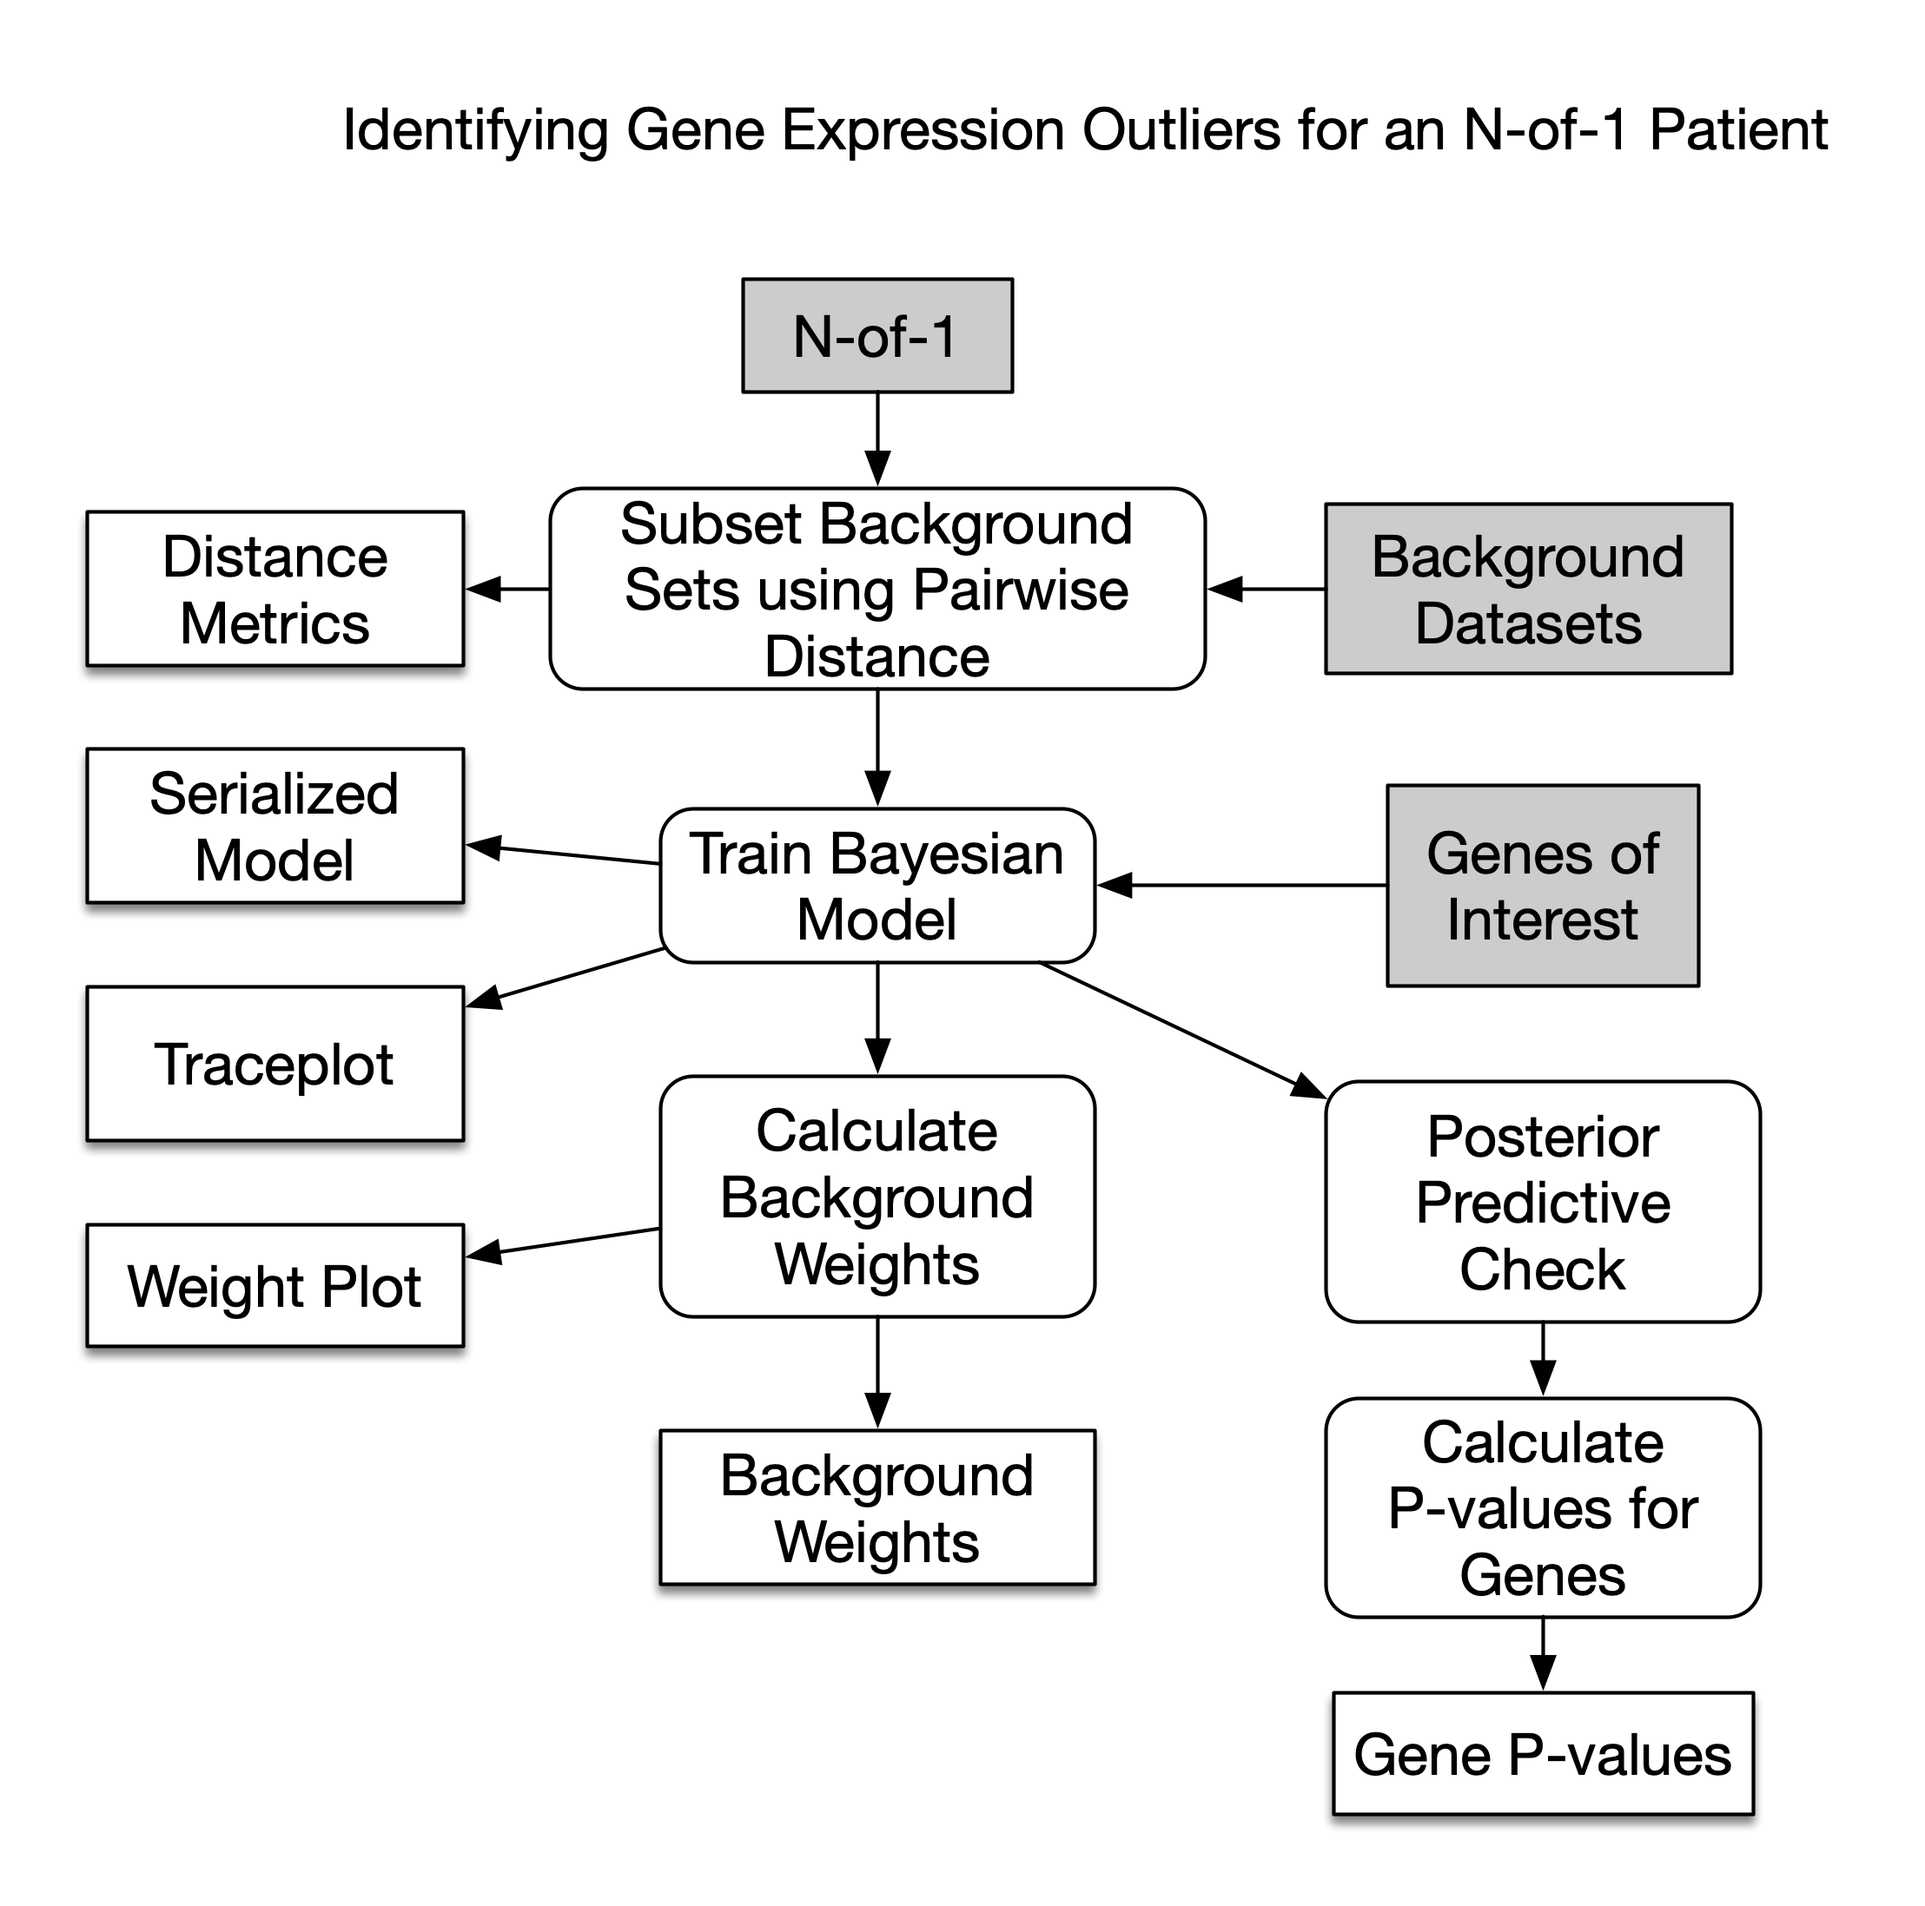
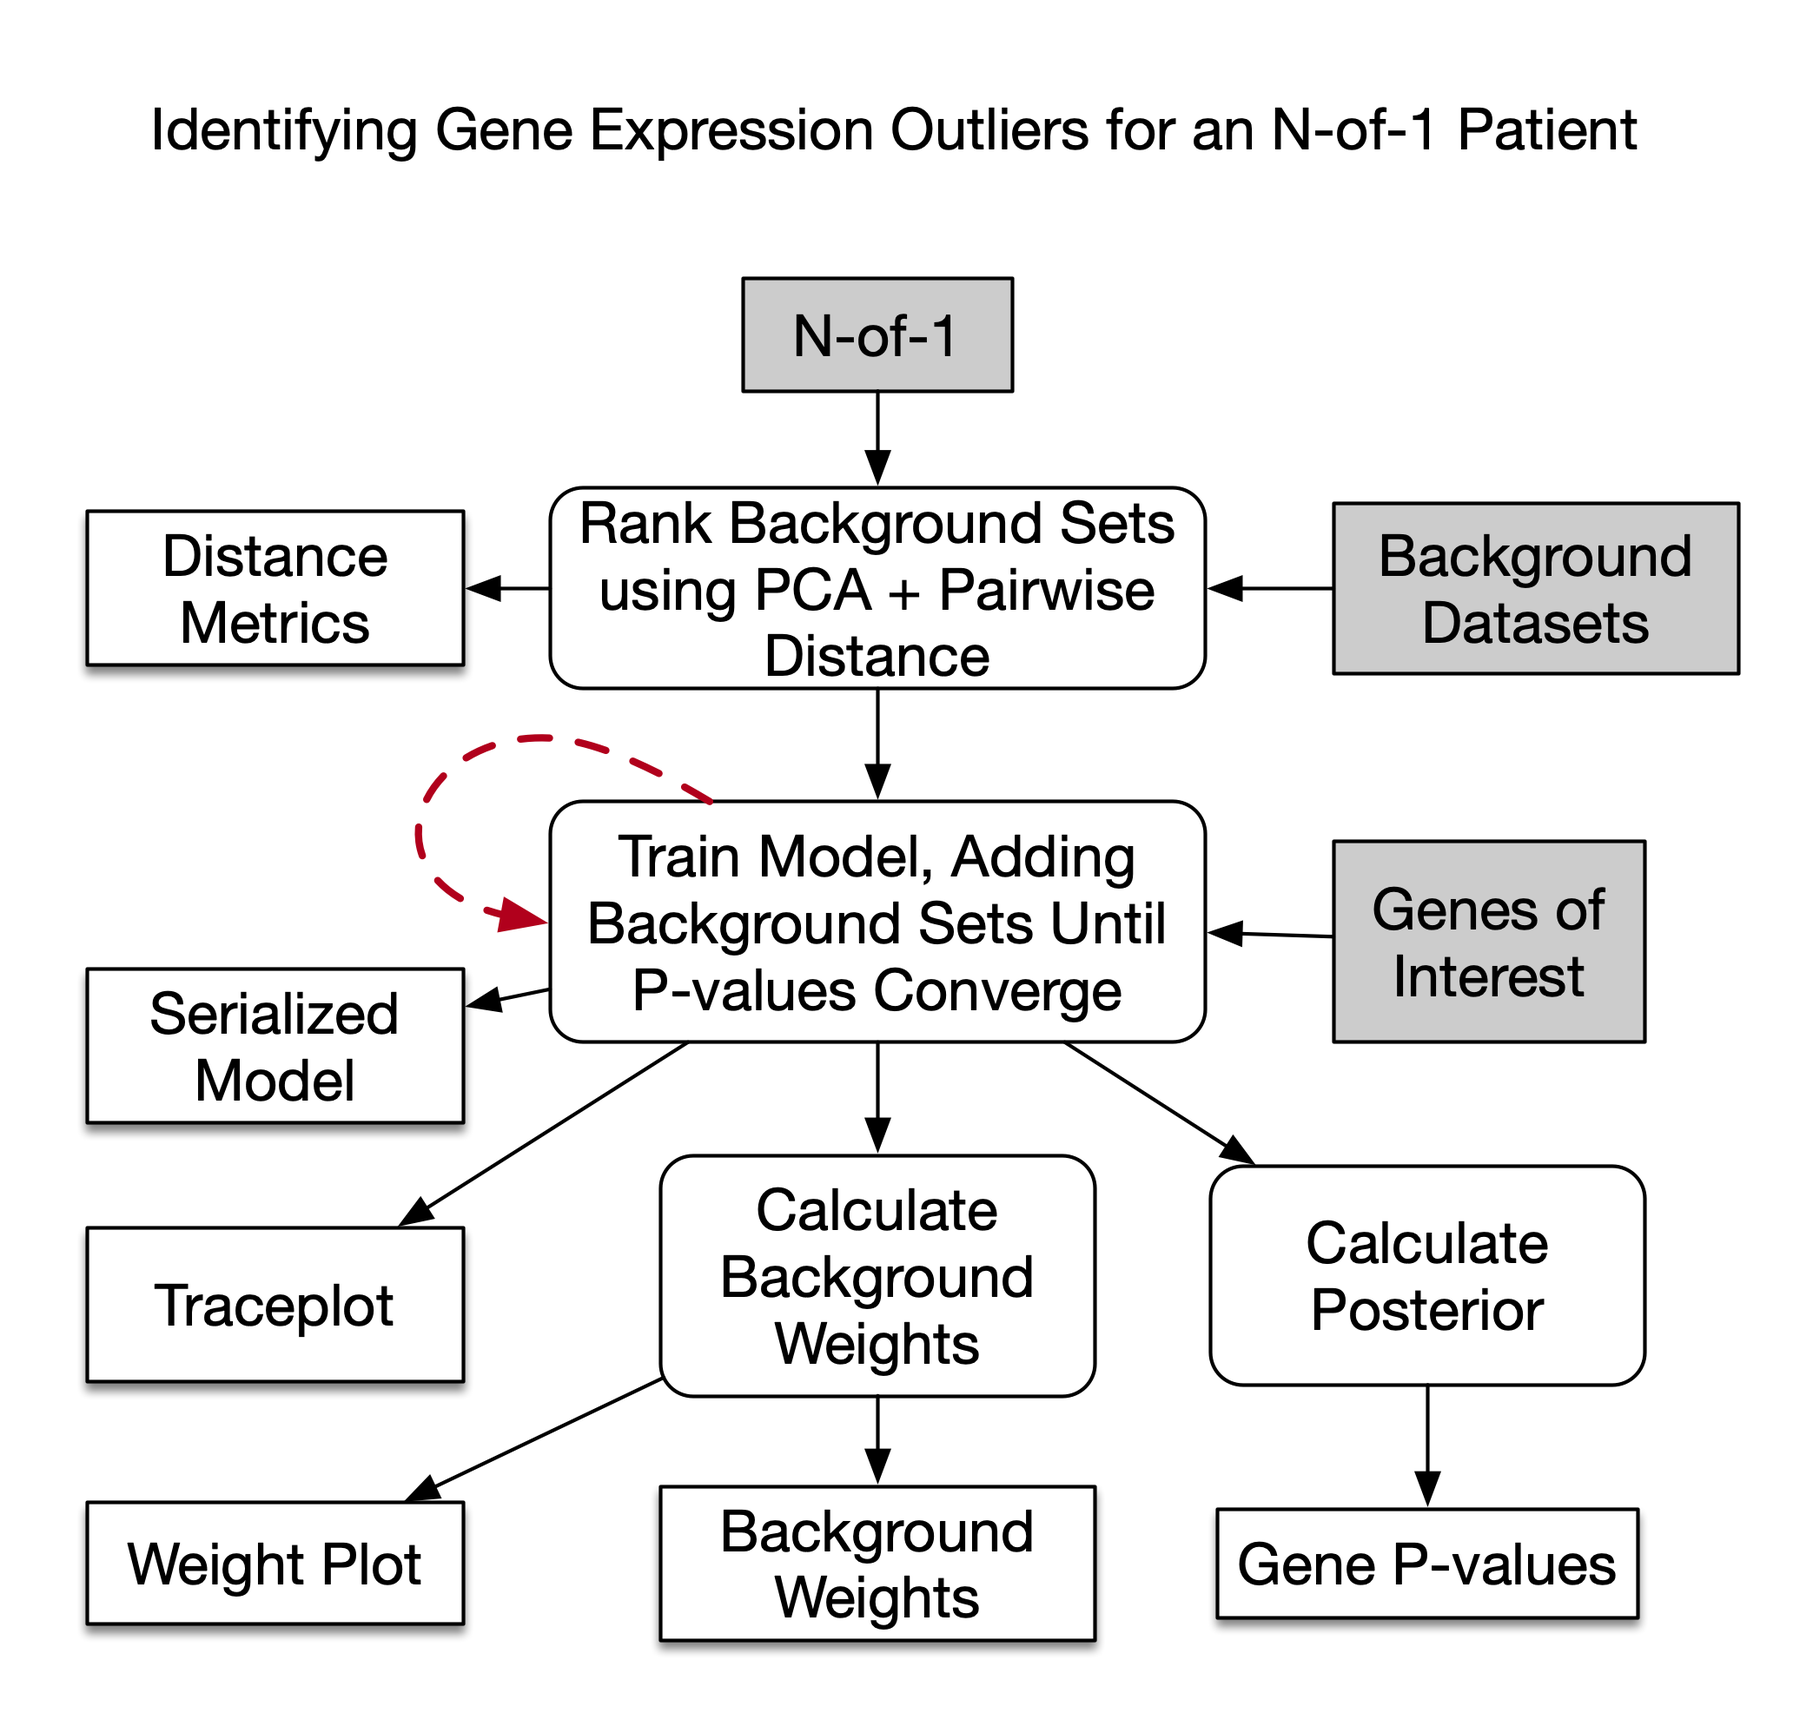
Update figures (resolves #12)
- Add new output files
- Catch and print exceptions when opening inputs
- Fix docker to post a latest tag
- Have travis only deploy on release branch (which doesn't exist yet)

diff --git a/gene_outlier_detection/lib.py b/gene_outlier_detection/lib.py
@@ -52,7 +52,8 @@ def get_sample(df_path: str, sample_name: str) -> pd.Series:
     else:
         try:
             df = pd.read_hdf(df_path)
-        except:
+        except Exception as e:
+            print(e)
             raise RuntimeError(f"Failed to open DataFrame: {df_path}")
 
     if sample_name in df.index:
@@ -80,7 +81,8 @@ def load_df(df_path: str) -> pd.DataFrame:
     else:
         try:
             df = pd.read_hdf(df_path)
-        except:
+        except Exception as e:
+            print(e)
             raise RuntimeError(f"Failed to open DataFrame: {df_path}")
     return df
 

diff --git a/README.md b/README.md
@@ -13,6 +13,8 @@ See [Model Explanation](#model-explanation) for more information.
 This workflow takes gene expression data as input and outputs the following:
 
     SAMPLE-UUID
+    ├── _pearson_correlations.txt
+    ├── _pval_runs.tsv
     ├── model.pkl
     ├── pvals.tsv
     ├── ranks.tsv
@@ -20,6 +22,8 @@ This workflow takes gene expression data as input and outputs the following:
     ├── weights.png
     └── weights.tsv
 
+- **_pearson_correlations.txt** - Single column list of pearson correlation of p-values between runs
+- **_pval_runs.tsv** - Table of p-values as background datasets are added
 - **model.pkl** — A python pickle of the [PyMC3](https://docs.pymc.io) `model` and `trace`. Can be retrieved via
 ```python
 import pickle
